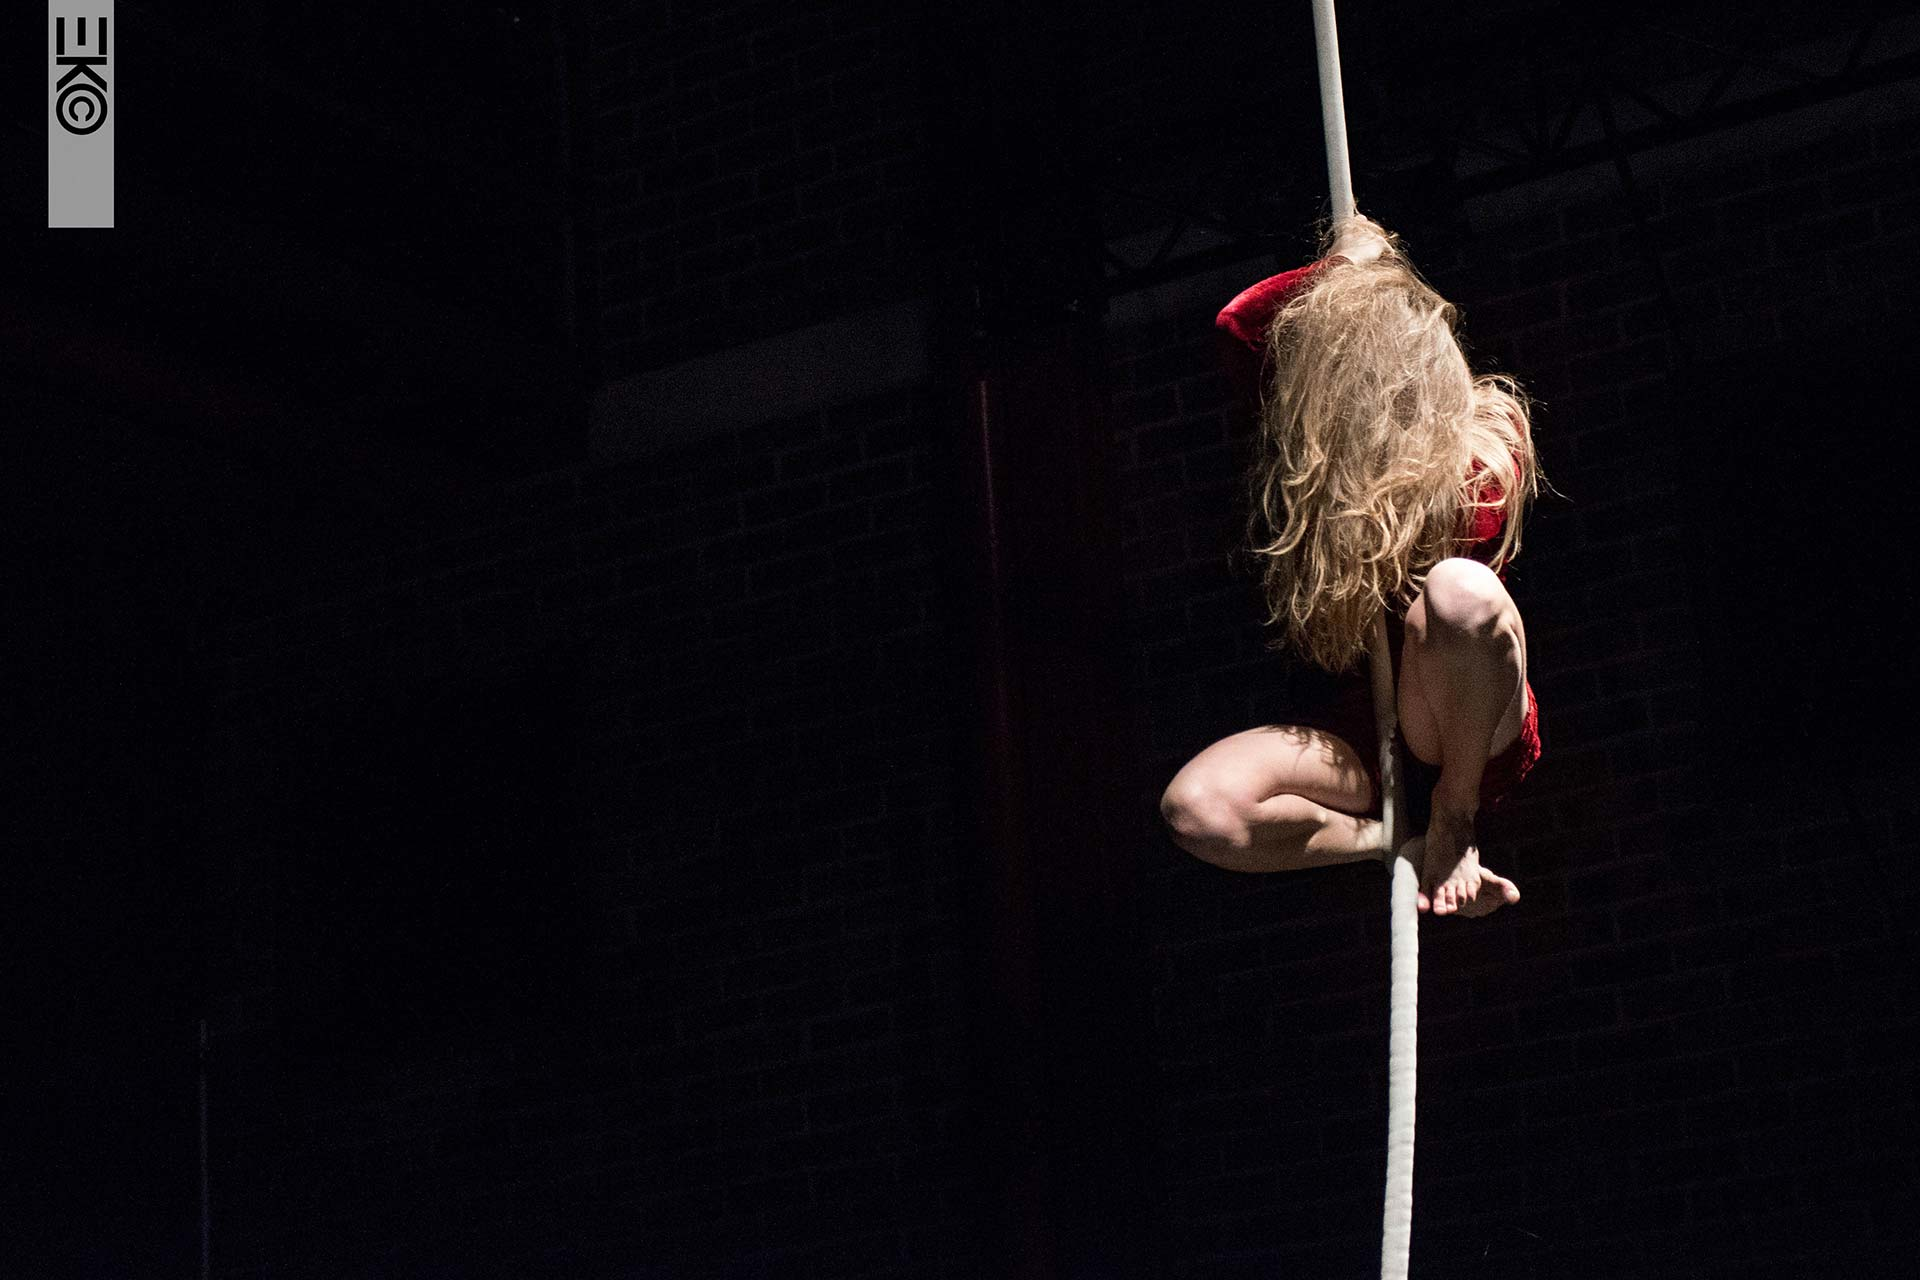
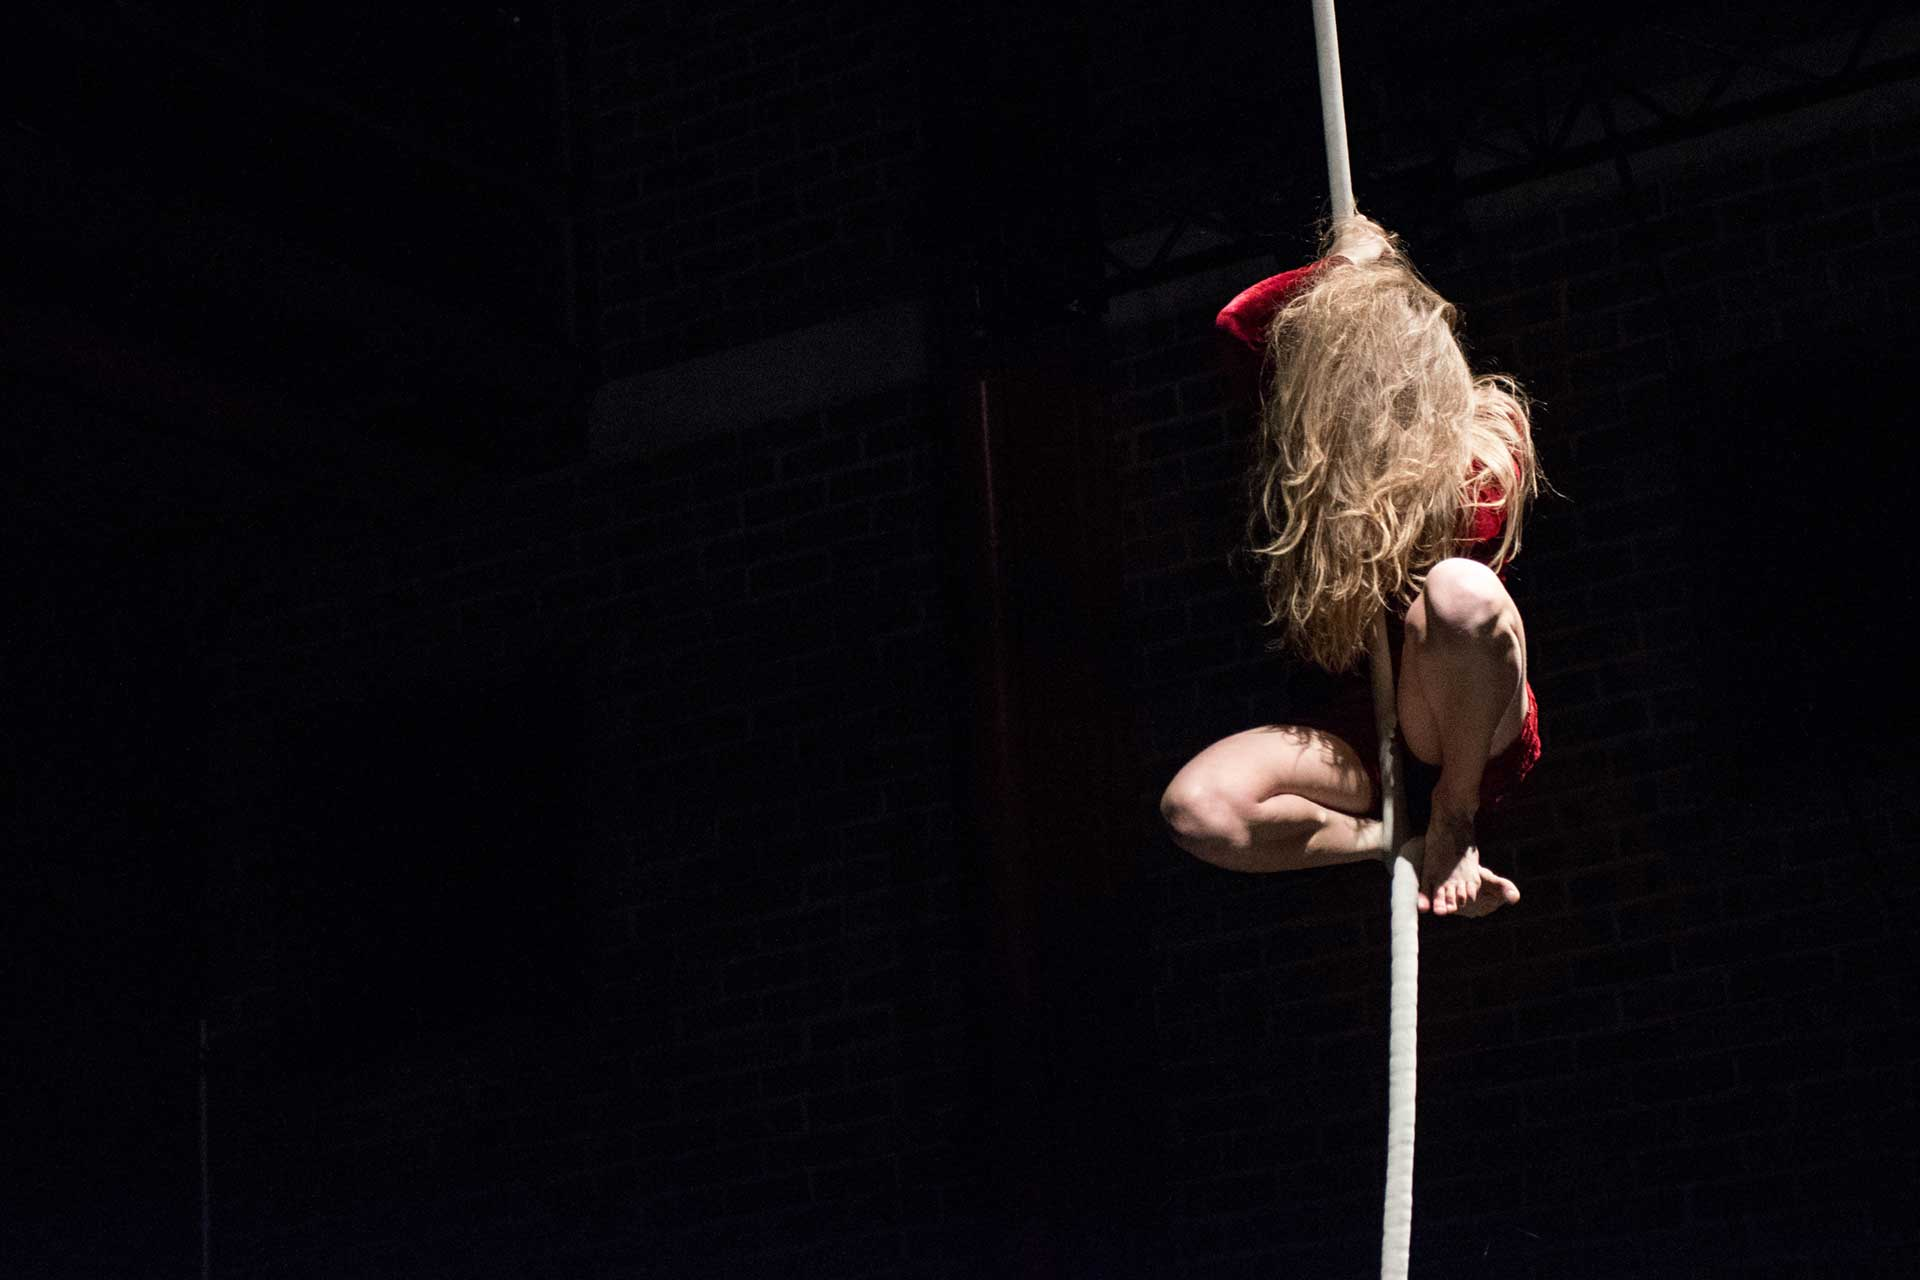
adjusted slideshow images: + removed copyright overlay + 2 new images for CoVal

Changed region(s): [[0.0, 0.0, 0.0625, 0.1875]]

diff --git a/index.src.html b/index.src.html
@@ -329,7 +329,7 @@
 						<img src="assets/images/slideshow/05_Tanter_Vixen_01.jpg" alt="Tanter Companie, Vixen">
 					</div>
 					<div class="cell">
-						<img src="assets/images/slideshow/06_CoVal_01_wide.jpg" alt="Val & Coline, Championnat">
+						<img src="assets/images/slideshow/06_CoVal_01.jpg" alt="Val & Coline, Championnat">
 					</div>
 					<div class="cell">
 						<img src="assets/images/slideshow/07_Natalie_01.jpg" alt="Natalie Reckert, image">
@@ -342,6 +342,9 @@
 					</div>
 					<div class="cell">
 						<img src="assets/images/slideshow/10_Tanter_Vixen_03.jpg" alt="Tanter Companie, Vixen">
+					</div>
+					<div class="cell">
+						<img src="assets/images/slideshow/11_CoVal_02.jpg" alt="Val & Coline, Championnat">
 					</div>
 				</div>
 				<section id="program" data-menu-offset="-79" class="ui inverted segment">
